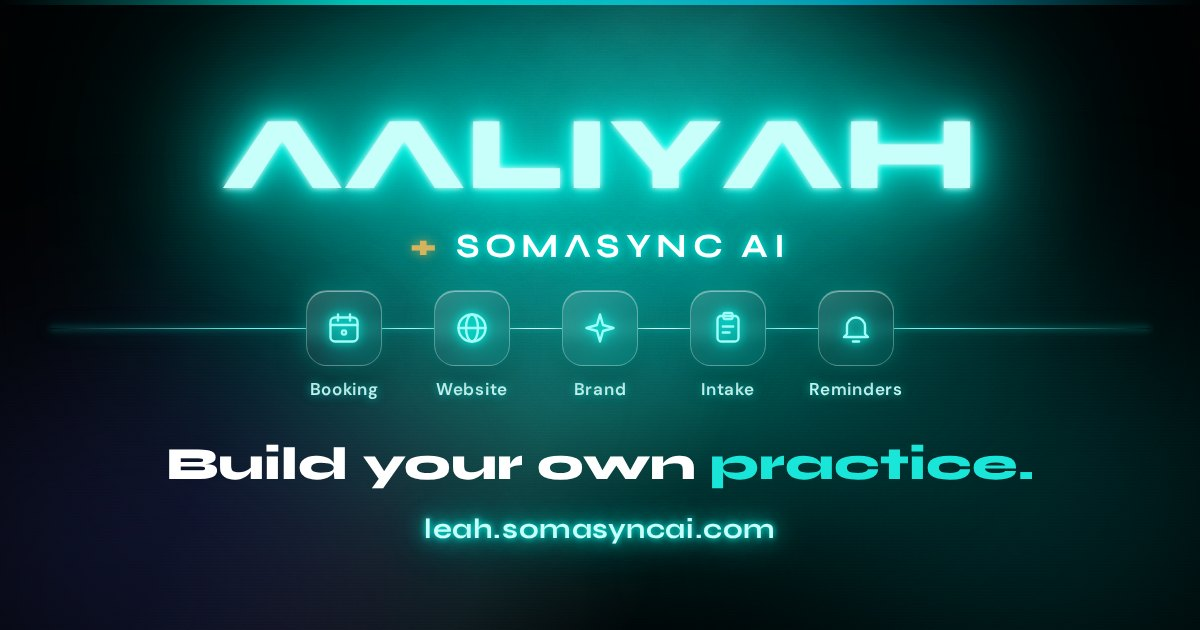
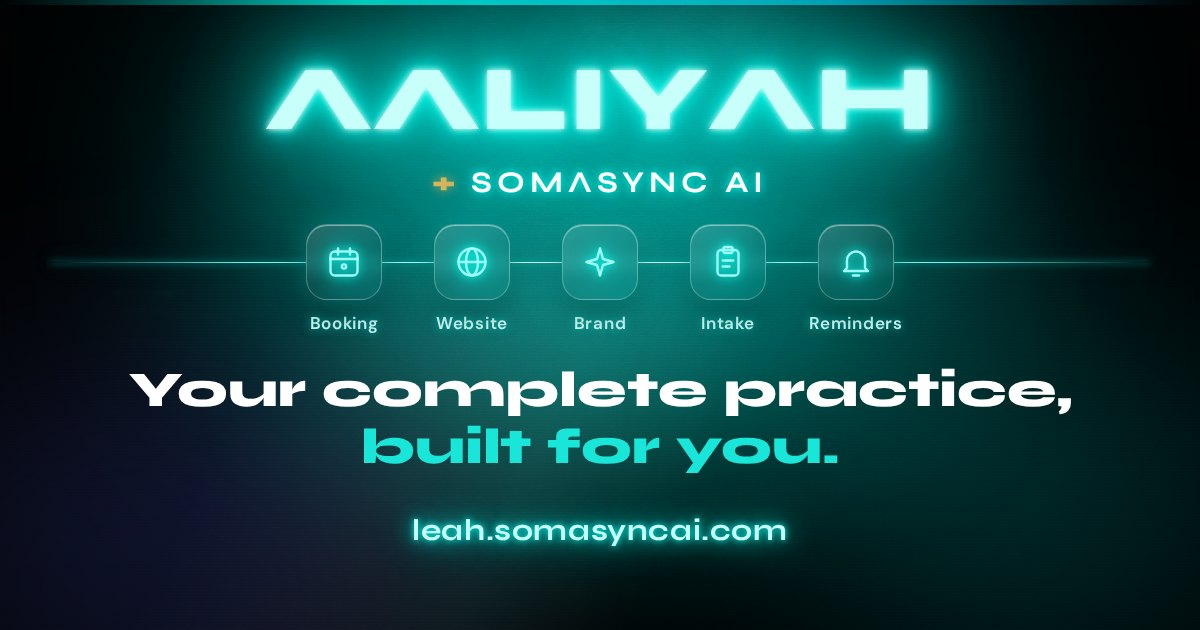
Share preview: done-for-you headline 'Your complete practice, built for you.'

diff --git a/index.html b/index.html
@@ -16,7 +16,7 @@
   <meta property="og:image" content="https://leah.somasyncai.com/og-launch-preview.jpg">
   <meta property="og:image:width" content="1200">
   <meta property="og:image:height" content="630">
-  <meta property="og:image:alt" content="Build your own practice. Leah + SomaSync AI: logo, website, online booking, intake and reminders for massage therapists. Launch $175, Growth $225, Complete $300.">
+  <meta property="og:image:alt" content="Your complete practice, built for you. Leah + SomaSync AI: logo, website, online booking, intake and reminders for massage therapists.">
   <meta name="twitter:card" content="summary_large_image">
   <meta name="twitter:title" content="Massage Practice Websites &amp; Systems | Leah + SomaSync AI">
   <meta name="twitter:description" content="Leah and SomaSync AI build one branded system around you: logo, website, online booking, intake and reminders. Launch $175 · Growth $225 · Complete $300, one time.">
